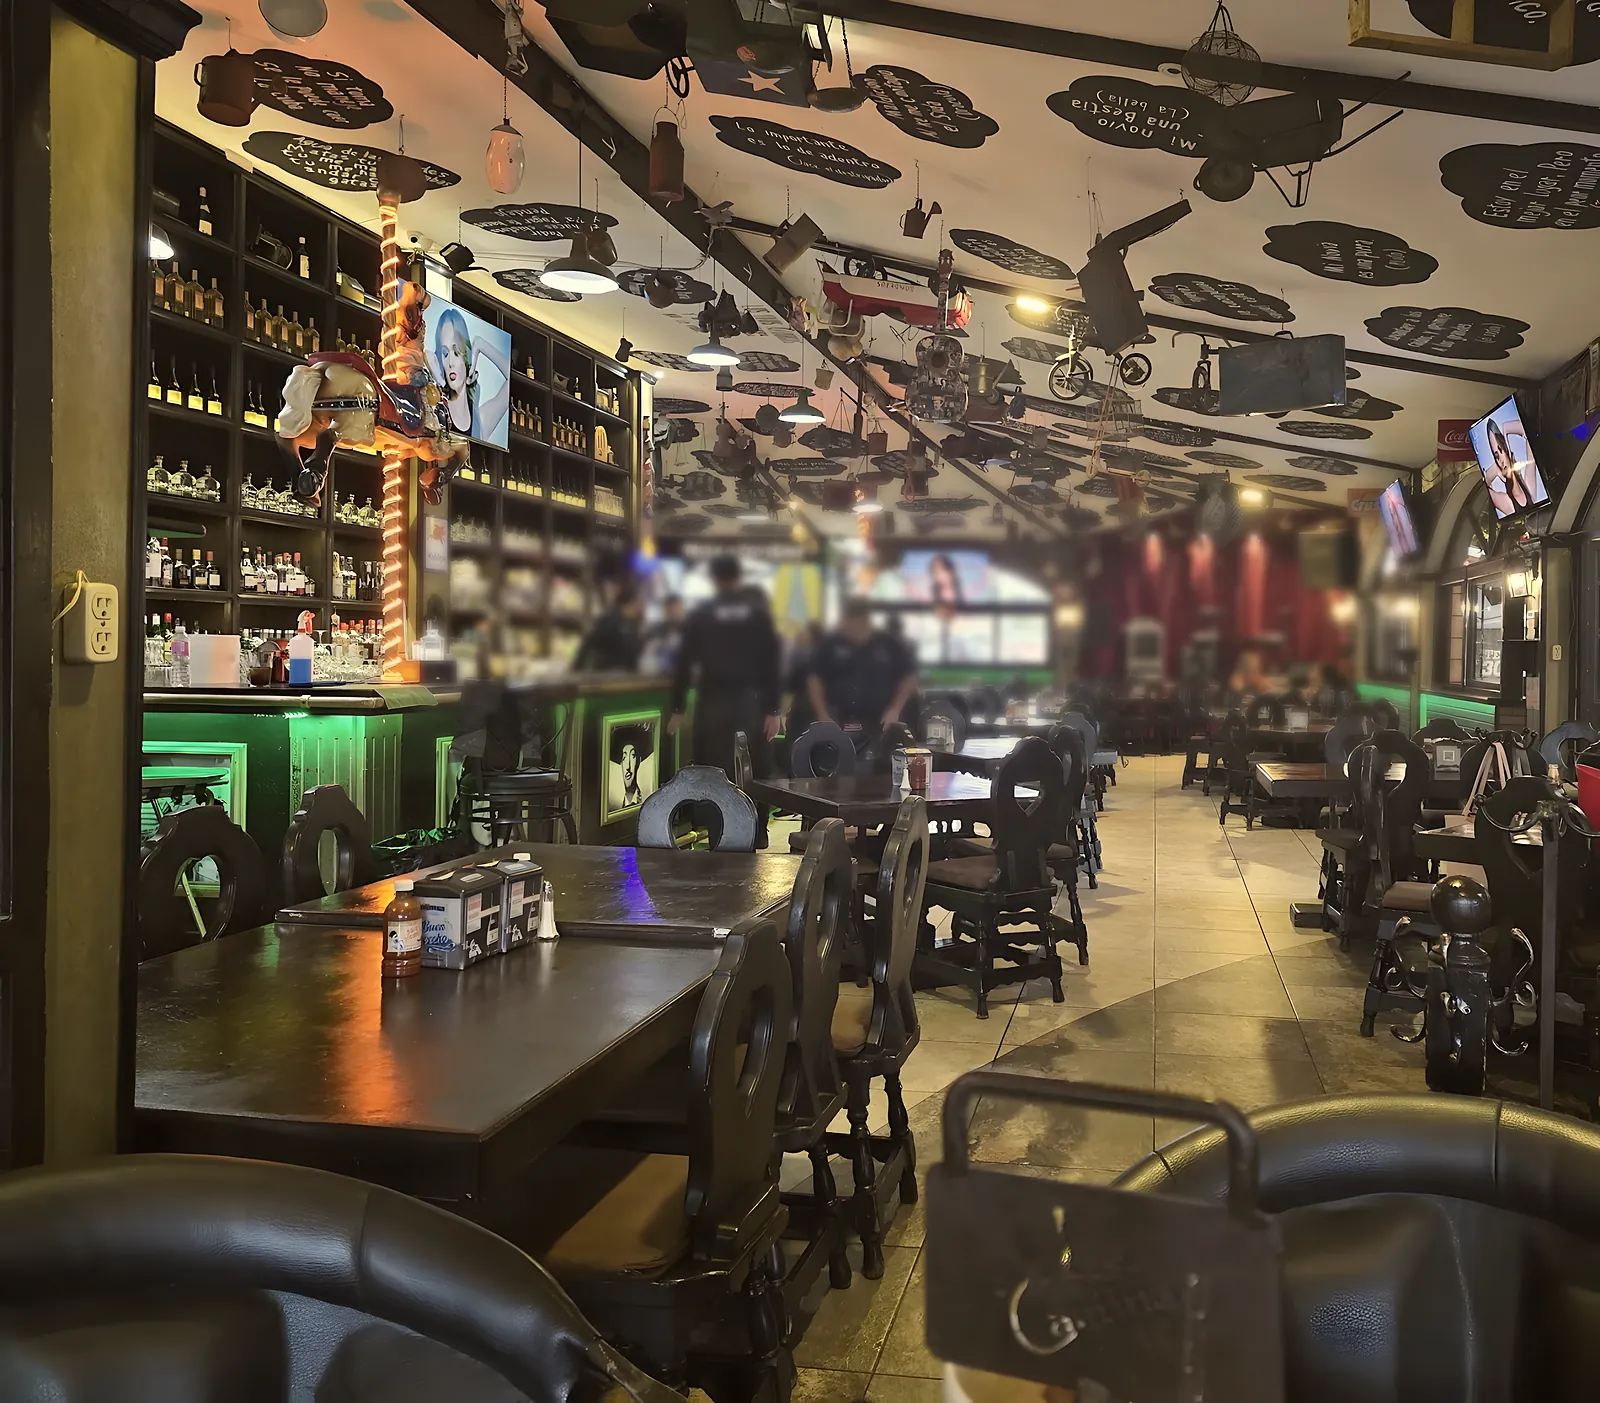
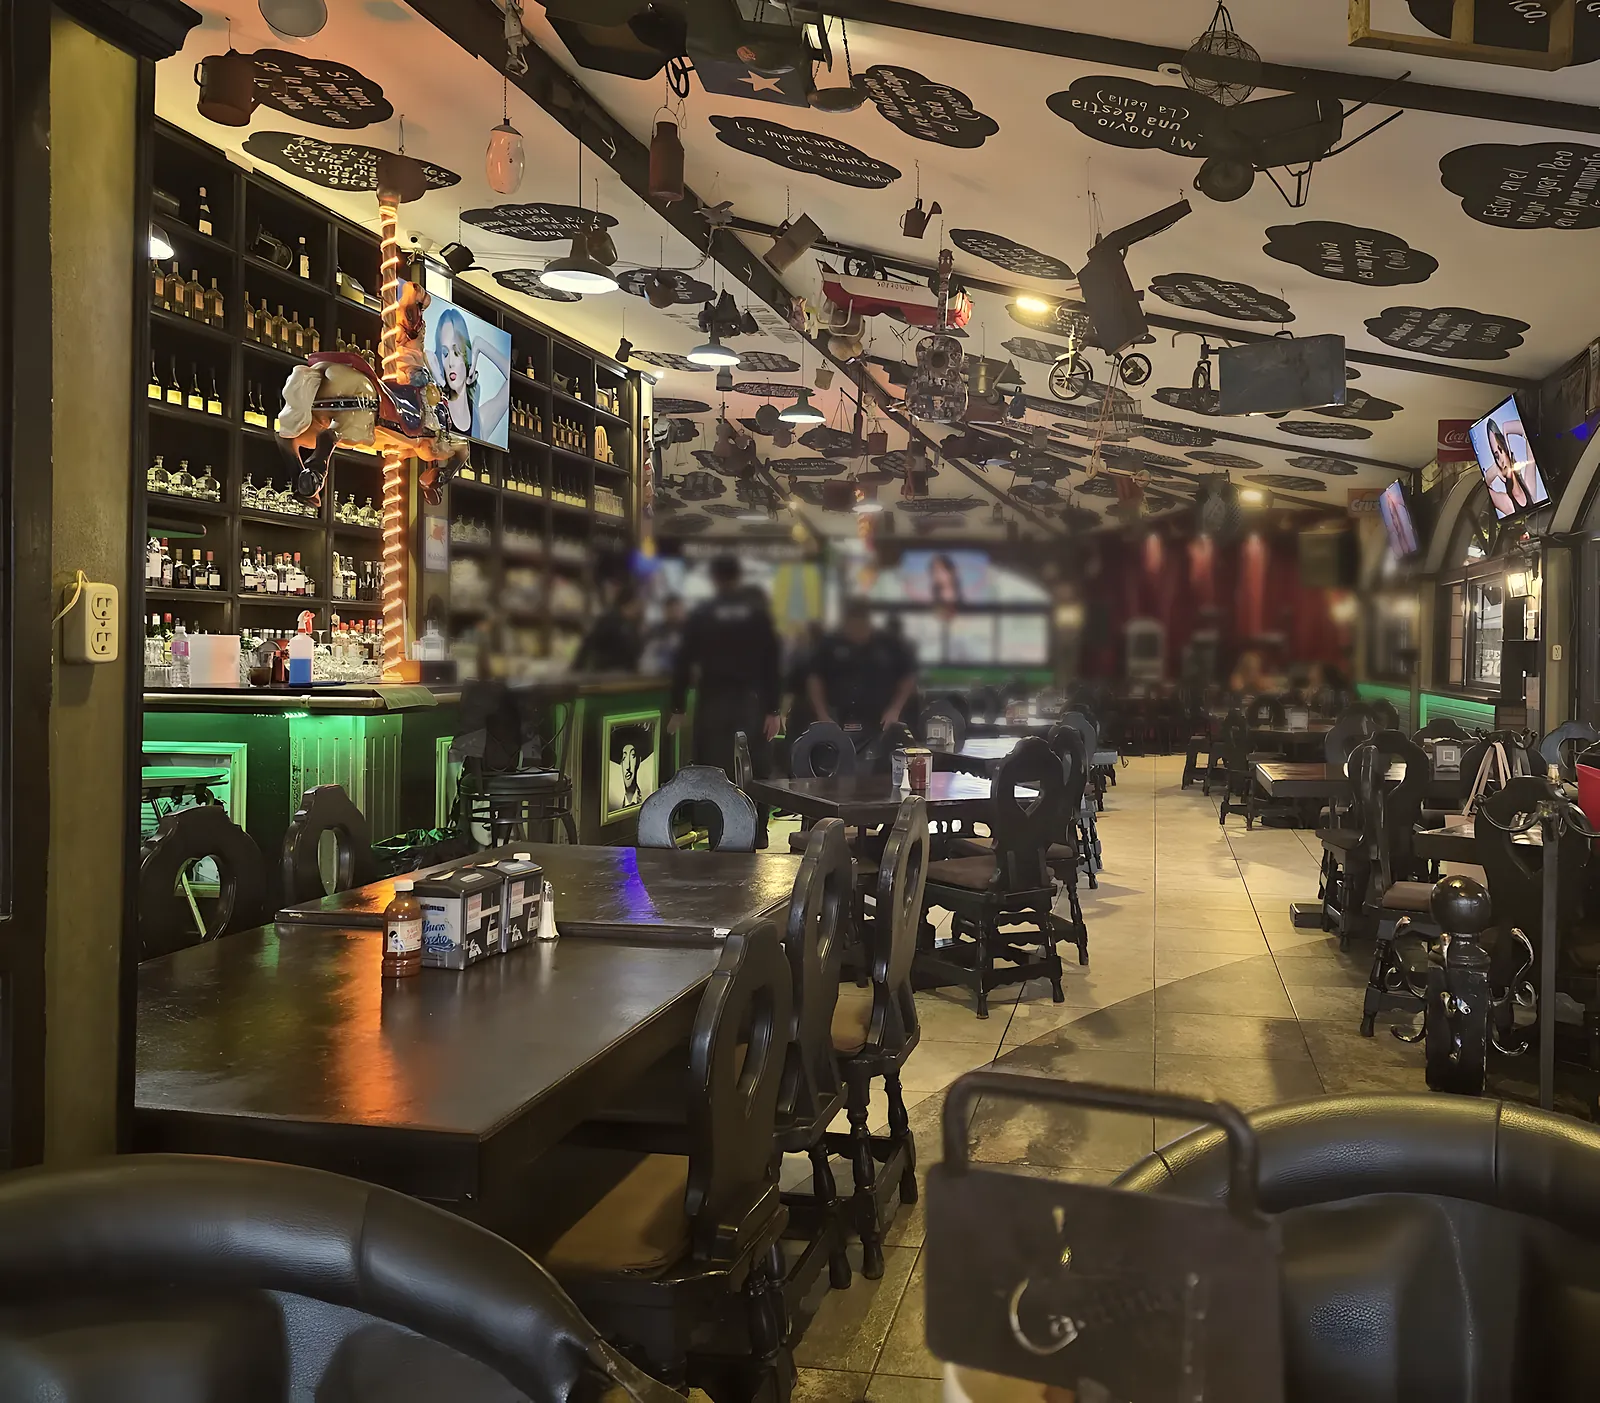
cantina-de-antano: tercera pasada (cambios del juez final rumbo al 9)

Changed region(s): [[0.25, 0.3371, 0.9375, 0.5517]]

diff --git a/cantina-de-antano/index.html b/cantina-de-antano/index.html
@@ -36,8 +36,8 @@
 <link rel="stylesheet" href="sections/10-hero.css?v=1790821175">
 <link rel="stylesheet" href="sections/20-dosxuno.css?v=1790821175">
 <link rel="stylesheet" href="sections/30-carta.css?v=1790821175">
-<link rel="stylesheet" href="sections/40-cantinas.css?v=1790821175">
-<link rel="stylesheet" href="sections/50-epoca.css?v=1790821175">
+<link rel="stylesheet" href="sections/40-cantinas.css?v=1790823549">
+<link rel="stylesheet" href="sections/50-epoca.css?v=1790823549">
 <link rel="stylesheet" href="sections/60-cierre.css?v=1790821175">
 <noscript><style>[data-reveal]{opacity:1!important;transform:none!important}.tab-panel{display:block!important}.chips{display:none!important}</style></noscript>
 </head>
@@ -232,13 +232,11 @@
   <div class="wrap epoca-head">
     <h2 class="tt" id="epoca-t" data-drop><span class="ln">Revive la</span><span class="ln">Época de Oro</span><span class="ln">del cine.</span></h2>
   </div>
-  <div class="wrap">
+  <div class="wrap epoca-main">
     <figure class="lobby epoca-card" data-reveal>
-      <img src="img/epoca-c-1280.webp" srcset="img/epoca-c-640.webp 640w, img/epoca-c-1280.webp 1280w, img/epoca-c-1840.webp 1840w" sizes="(min-width:960px) 900px, calc(100vw - 40px)" alt="La pared de La Cantina de Antaño: retratos en blanco y negro de estrellas del cine mexicano, entre ellos Pedro Infante, junto al caballito de carrusel" width="1840" height="1044" loading="lazy">
+      <img src="img/epoca-c-1146.webp" srcset="img/epoca-c-640.webp 640w, img/epoca-c-1146.webp 1146w" sizes="(min-width:700px) 596px, calc(100vw - 40px)" alt="La pared de La Cantina de Antaño: retratos en blanco y negro de estrellas del cine mexicano, entre ellos Pedro Infante, junto al caballito de carrusel" width="1146" height="522" loading="lazy">
       <figcaption>Retratos de la Época de Oro en la pared, sucursal Colosio</figcaption>
     </figure>
-  </div>
-  <div class="wrap epoca-body">
     <ul class="revs">
       <li class="lobby rev" data-reveal>
         <div class="stars" role="img" aria-label="5 de 5 estrellas"><svg aria-hidden="true"><use href="#i-star"/></svg><svg aria-hidden="true"><use href="#i-star"/></svg><svg aria-hidden="true"><use href="#i-star"/></svg><svg aria-hidden="true"><use href="#i-star"/></svg><svg aria-hidden="true"><use href="#i-star"/></svg></div>
@@ -256,6 +254,8 @@
         <p class="rev-by mq"><b>MARCO SOTO</b> · Sucursal Colosio · Google Maps</p>
       </li>
     </ul>
+  </div>
+  <div class="wrap epoca-body">
     <div class="evt" id="eventos" data-reveal>
       <p class="evt-t"><span class="ln">Salón privado</span><span class="ln rj">para 120 personas.</span></p>
       <p class="evt-s">Paquetes para grupos: te lo cotizamos sin compromiso.</p>

diff --git a/cantina-de-antano/sections/50-epoca.css b/cantina-de-antano/sections/50-epoca.css
@@ -1,12 +1,13 @@
 .epoca{background:var(--cafe);position:relative}
 .epoca-head{padding-top:44px;padding-bottom:20px}
 .epoca .tt{font-size:clamp(30px,8.2vw,72px)}
-.epoca-card{margin:0;padding:10px 10px 12px;max-width:920px;margin-inline:auto}
+.epoca-main{display:grid;gap:28px;padding-bottom:24px}
+.epoca-card{margin:0;padding:10px 10px 12px;width:100%;max-width:620px;justify-self:start}
 .epoca-card>*{position:relative}
-.epoca-card img{width:100%;aspect-ratio:4/3;object-fit:cover;object-position:58% 50%;border-radius:2px;background:var(--banda)}
+.epoca-card img{width:100%;aspect-ratio:3/2;object-fit:cover;object-position:60% 50%;border-radius:2px;background:var(--banda)}
 .epoca-card figcaption{font:italic 400 15px/1.4 var(--f-txt);color:var(--tinta2);padding:10px 4px 0;text-align:center;text-wrap:balance}
-.epoca-body{padding-block:28px 32px;display:grid;gap:24px}
-.revs{display:grid;gap:16px;padding:0}
+.epoca-body{padding-block:0 32px}
+.revs{display:grid;gap:16px;padding:0;margin:0}
 .rev{display:flex;flex-direction:column;gap:8px;padding:18px 18px 14px}
 .rev>*{position:relative}
 .rev blockquote{margin:0;font:400 16px/1.45 var(--f-txt);font-style:italic;color:var(--tinta);text-wrap:pretty}
@@ -16,11 +17,18 @@
 .evt-t{font:400 clamp(26px,7vw,40px)/1.08 var(--f-tit);color:var(--crema);text-wrap:balance}
 .evt-t .ln{display:block}.evt-t .rj{color:var(--rojo-t)}
 .evt-s{font-size:16px;color:var(--crema);opacity:.9;margin:6px 0 4px;text-wrap:pretty}
+/* la foto sale de un recorte de 573 px subido x2: nunca se muestra a más de 620 px */
 @media (min-width:700px){.epoca-card img{aspect-ratio:auto}}
 @media (min-width:860px){
   .epoca-head{padding-top:84px;padding-bottom:32px;text-align:center}
-  .epoca-card{padding:12px 12px 14px}
-  .epoca-body{display:block;padding-block:56px 88px}
+  .epoca-card{padding:12px 12px 14px;justify-self:center}
+  .epoca-main{gap:56px;padding-bottom:0}
+  .epoca-body{padding-block:48px 88px}
   .revs{grid-template-columns:repeat(3,1fr);gap:22px}
-  .evt{margin-top:48px;padding-top:28px}
+  .evt{padding-top:28px}
+}
+@media (min-width:1100px){
+  .epoca-main{grid-template-columns:1.1fr 1fr;gap:48px;align-items:start}
+  .epoca-card{justify-self:end;position:sticky;top:96px}
+  .revs{grid-template-columns:1fr;gap:16px}
 }

diff --git a/cantina-de-antano/sections/50-epoca.html b/cantina-de-antano/sections/50-epoca.html
@@ -2,13 +2,11 @@
   <div class="wrap epoca-head">
     <h2 class="tt" id="epoca-t" data-drop><span class="ln">Revive la</span><span class="ln">Época de Oro</span><span class="ln">del cine.</span></h2>
   </div>
-  <div class="wrap">
+  <div class="wrap epoca-main">
     <figure class="lobby epoca-card" data-reveal>
-      <img src="img/epoca-c-1280.webp" srcset="img/epoca-c-640.webp 640w, img/epoca-c-1280.webp 1280w, img/epoca-c-1840.webp 1840w" sizes="(min-width:960px) 900px, calc(100vw - 40px)" alt="La pared de La Cantina de Antaño: retratos en blanco y negro de estrellas del cine mexicano, entre ellos Pedro Infante, junto al caballito de carrusel" width="1840" height="1044" loading="lazy">
+      <img src="img/epoca-c-1146.webp" srcset="img/epoca-c-640.webp 640w, img/epoca-c-1146.webp 1146w" sizes="(min-width:700px) 596px, calc(100vw - 40px)" alt="La pared de La Cantina de Antaño: retratos en blanco y negro de estrellas del cine mexicano, entre ellos Pedro Infante, junto al caballito de carrusel" width="1146" height="522" loading="lazy">
       <figcaption>Retratos de la Época de Oro en la pared, sucursal Colosio</figcaption>
     </figure>
-  </div>
-  <div class="wrap epoca-body">
     <ul class="revs">
       <li class="lobby rev" data-reveal>
         <div class="stars" role="img" aria-label="5 de 5 estrellas"><svg aria-hidden="true"><use href="#i-star"/></svg><svg aria-hidden="true"><use href="#i-star"/></svg><svg aria-hidden="true"><use href="#i-star"/></svg><svg aria-hidden="true"><use href="#i-star"/></svg><svg aria-hidden="true"><use href="#i-star"/></svg></div>
@@ -26,6 +24,8 @@
         <p class="rev-by mq"><b>MARCO SOTO</b> · Sucursal Colosio · Google Maps</p>
       </li>
     </ul>
+  </div>
+  <div class="wrap epoca-body">
     <div class="evt" id="eventos" data-reveal>
       <p class="evt-t"><span class="ln">Salón privado</span><span class="ln rj">para 120 personas.</span></p>
       <p class="evt-s">Paquetes para grupos: te lo cotizamos sin compromiso.</p>

diff --git a/cantina-de-antano/sections/40-cantinas.css b/cantina-de-antano/sections/40-cantinas.css
@@ -7,7 +7,9 @@
 .car:focus-visible{outline-offset:-4px}
 .cc{flex:0 0 min(80vw,310px);scroll-snap-align:center;display:flex;flex-direction:column;gap:7px;padding:20px 18px 16px}
 .cc>*{position:relative}
-.cc-foto{aspect-ratio:3/2;margin:0 0 6px}
+.cc-foto{aspect-ratio:4/3;overflow:hidden;margin:0 0 6px}
+.cc-foto img{width:100%;height:100%;object-fit:cover;display:block}
+.cc[data-suc="anita"] .cc-foto img{object-position:50% 35%}
 .cc-n{font:400 30px/1.05 var(--f-tit);color:var(--tinta)}
 .cc-tag{font-size:14px;letter-spacing:.08em;text-transform:uppercase;color:var(--rojo-d);margin-top:-4px}
 .cc-st{font-size:14px;line-height:1.35;color:var(--tinta2);padding-left:14px;position:relative}
@@ -38,3 +40,6 @@
   .cants-head{padding-top:84px}.cants-nota{text-align:center;padding-top:16px}
 }
 @media (min-width:860px) and (max-width:1099px){.cc{flex-basis:320px}}
+/* celular (se ve una tarjeta a la vez): cada tarjeta a su alto, sin hueco antes de los botones.
+   De 700 px para arriba se ven varias juntas y se quedan del mismo alto. */
+@media (max-width:699px){.car{align-items:flex-start}.cc-act{margin-top:0}}

diff --git a/cantina-de-antano/CORRECCION-3.md b/cantina-de-antano/CORRECCION-3.md
@@ -1,0 +1,34 @@
+# La Cantina de Antaño · Corrección 3 (30 sep 2026)
+
+Aplica REVISION-3.md en orden (trae 4 cambios). Todo sale de `python3 gen.py && python3 build.py`; index.html no se tocó a mano. Precios, horarios, reseñas, teléfonos y textos sin cambios. Fotos solo con PIL, sin IA ni stock; script: `scratchpad/r3fix-cantina-de-antano/imgs3.py`.
+
+## Aplicado
+1. **Época sin reescalado derretido.**
+   - Recorte nuevo de `maps-interior-barra-02.jpg`: x 975-1548, y 615-876. El juez pidió que terminara en y 895, pero ahí todavía asomaba arriba el marco con el busto fantasma; con 876 sale completo. Arriba se sube 10 px (la soga empieza más arriba, en y 613, y no entra).
+   - Se sube solo x2 con Lanczos + `UnsharpMask(radius=1.2, percent=60)`. Sin Real-ESRGAN. Lleva el mismo grado interior del resto. Archivos: `epoca-c-640` y `epoca-c-1146`; las de 1280 y 1840 se pasaron al scratchpad.
+   - La tarjeta mide máximo 620 px. Así la foto nunca pasa de 1.1x su tamaño real: en compu se ve a 577 px.
+   - En compu (≥1100), `.epoca-main` es una rejilla `1.1fr 1fr`: la foto a la izquierda y las 3 reseñas apiladas a la derecha. La foto queda `sticky` para que no deje un hueco junto a la tercera reseña. "Salón privado" va abajo, a todo lo ancho, como antes.
+   - En celular la foto va a lo ancho en 3:2, porque la foto nueva es más apaisada y en 4:3 se cortaba demasiado. Entre 700 y 859 px va alineada a la izquierda con el título; entre 860 y 1099, centrada con las reseñas en 3 columnas.
+2. **Tarjetas de sucursal alineadas.** Se aplicó tal cual:
+   - `.cc-foto{aspect-ratio:4/3;overflow:hidden}`
+   - Imagen con `object-fit:cover`
+   - Sta. Anita con `object-position:50% 35%`
+
+   Medido a 1440: las 4 fotos miden 186 px, los nombres caen a 220 px en las 4 y los botones rematan igual. En celular las fotos también quedan parejas (204 px).
+3. **Hero de compu sin fantasmas.** En `hero-d`, dentro de la misma máscara del desenfoque de la franja del fondo, la luz baja al 70 % (`ImageEnhance.Brightness(0.7)`). Los meseros ya se leen como sombra detrás de "Una tradición". `hero-m` no se tocó.
+4. **Colosio sin hueco en celular.** Se usó la opción 1 (`.car{align-items:flex-start}` y `.cc-act{margin-top:0}`), pero solo por debajo de 700 px, donde se ve una tarjeta a la vez. Colosio ya no trae los ~110 px vacíos.
+
+## No aplicado o cambiado
+- **Hero, opción `object-position:62% 50%`:** no sirve. A 1440 la foto (1600 × 1403) se ajusta al ancho y se recorta solo en alto, así que mover la posición horizontal no cambia nada. Se usó la opción de la luz al 70 %.
+- **Colosio, opción 2** (llenar el hueco con "Valet parking · área infantil"): ese dato ya está en su tarjeta y repetirlo quedaba de relleno.
+- **Tarjetas sin estirar en tableta:** de 700 a 1099 px se ven 2 o 3 tarjetas juntas. Ahí siguen del mismo alto (lo que pidió REVISION-2), para que no se vean bordes disparejos.
+
+## Verificación
+- krevo-shot m: **0 alertas**, 8,248 px (antes 8,285), 3 WhatsApp, 12 `tel:`, sin errores de consola, sin 404 y sin scroll horizontal.
+- krevo-shot d: **0 alertas**, 6,836 px. Sube 180 px porque las reseñas van apiladas junto a la foto.
+- Alto por categoría en celular: Cocteles 8,656 (la más larga) y Cervezas 8,271; todas bajo 9,000.
+- El flujo de Mi mesa queda intacto. Barra "Mi mesa · 4 $2,742". URL decodificada: `https://wa.me/524491721073?text=Hola La Cantina de Antaño, quiero apartar mesa en Nacozari para 6 personas mañana a las 11:00 p.m. Pensamos pedir: 2 x Parrillada norteña 4 personas, 2 x Cubeta de 6 Corona/Light/Victoria/Pacífico, Refresco. Nombre: Ana`.
+- Hojas en `scratchpad/r3fix-cantina-de-antano/`: `hoja-celular.jpg`, `hoja-compu.jpg` y `t820-hoja.jpg` (820 px).
+
+## Ojo
+- La foto de Época ya no tiene caras de cera, pero se ve suave, como lo que es: una foto de celular de 573 px. El techo sigue siendo el material del dueño (PENDIENTES.md).

diff --git a/cantina-de-antano/IMAGENES.md b/cantina-de-antano/IMAGENES.md
@@ -29,3 +29,11 @@ Pendiente: fotos profesionales de platillos, cocteles y música en vivo.
 | hero-m, hero-d (rehechas) | maps-interior-salon.jpg, mismos recortes | Hero | Sin parches; desenfoque parejo de la franja del fondo después de subir x4 |
 | p-mesa-v, p-tabla-v, p-tarro-v, p-botellas-v (680x850) | botanas-mesa, parrillada-tabla, tarro (ig-02) y botellero (barra-02) | Columna fija de la carta a ≥860 | Mismo grado por tipo |
 | f-colosio (rehecha) | sitio-fachada-colosio-noche.jpg recortada a 3:2 sin cielo negro | Tarjeta Colosio | Grado noche |
+
+## Corrección 3 (script `scratchpad/r3fix-cantina-de-antano/imgs3.py`)
+| Archivo | Origen | Uso | Tratamiento |
+|---|---|---|---|
+| epoca-c-640, epoca-c-1146 (rehechas) | maps-interior-barra-02.jpg (x 975-1548, y 615-876: se quita abajo el marco con el busto fantasma) | Lobby card de Época de Oro, máx. 620 px | Grado interior, subida solo x2 con Lanczos + UnsharpMask(1.2, 60). SIN Real-ESRGAN (derretía las caras chicas) |
+| hero-d-960/1600 (rehechas) | maps-interior-salon.jpg, mismo recorte | Hero en compu | Mismo desenfoque parejo de la franja del fondo y luz al 70 % dentro de esa franja: los meseros quedan como sombra. hero-m no se tocó |
+
+Ya no se usan (movidas a `scratchpad/r3fix-cantina-de-antano/old-img/`): epoca-c-1280, epoca-c-1840.
